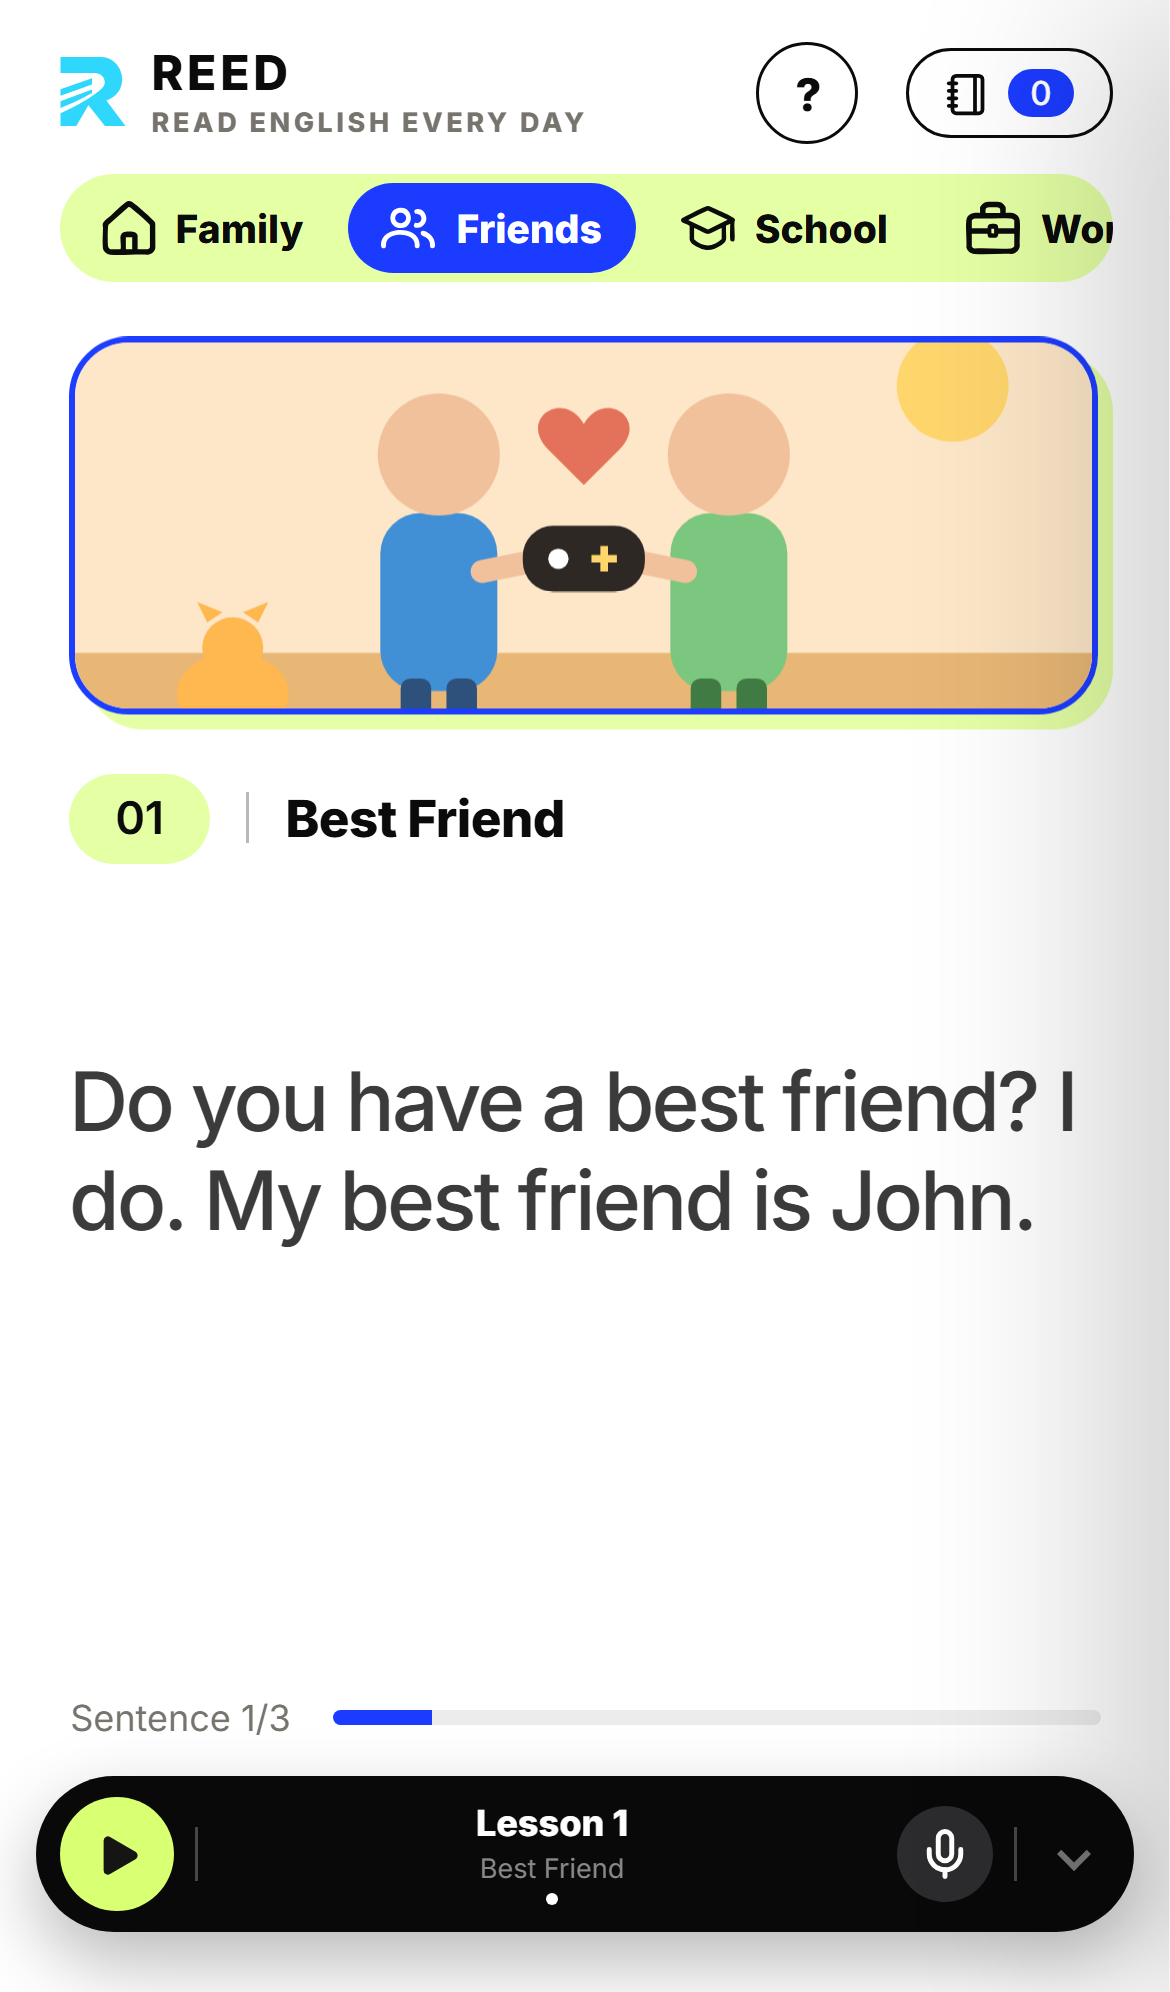
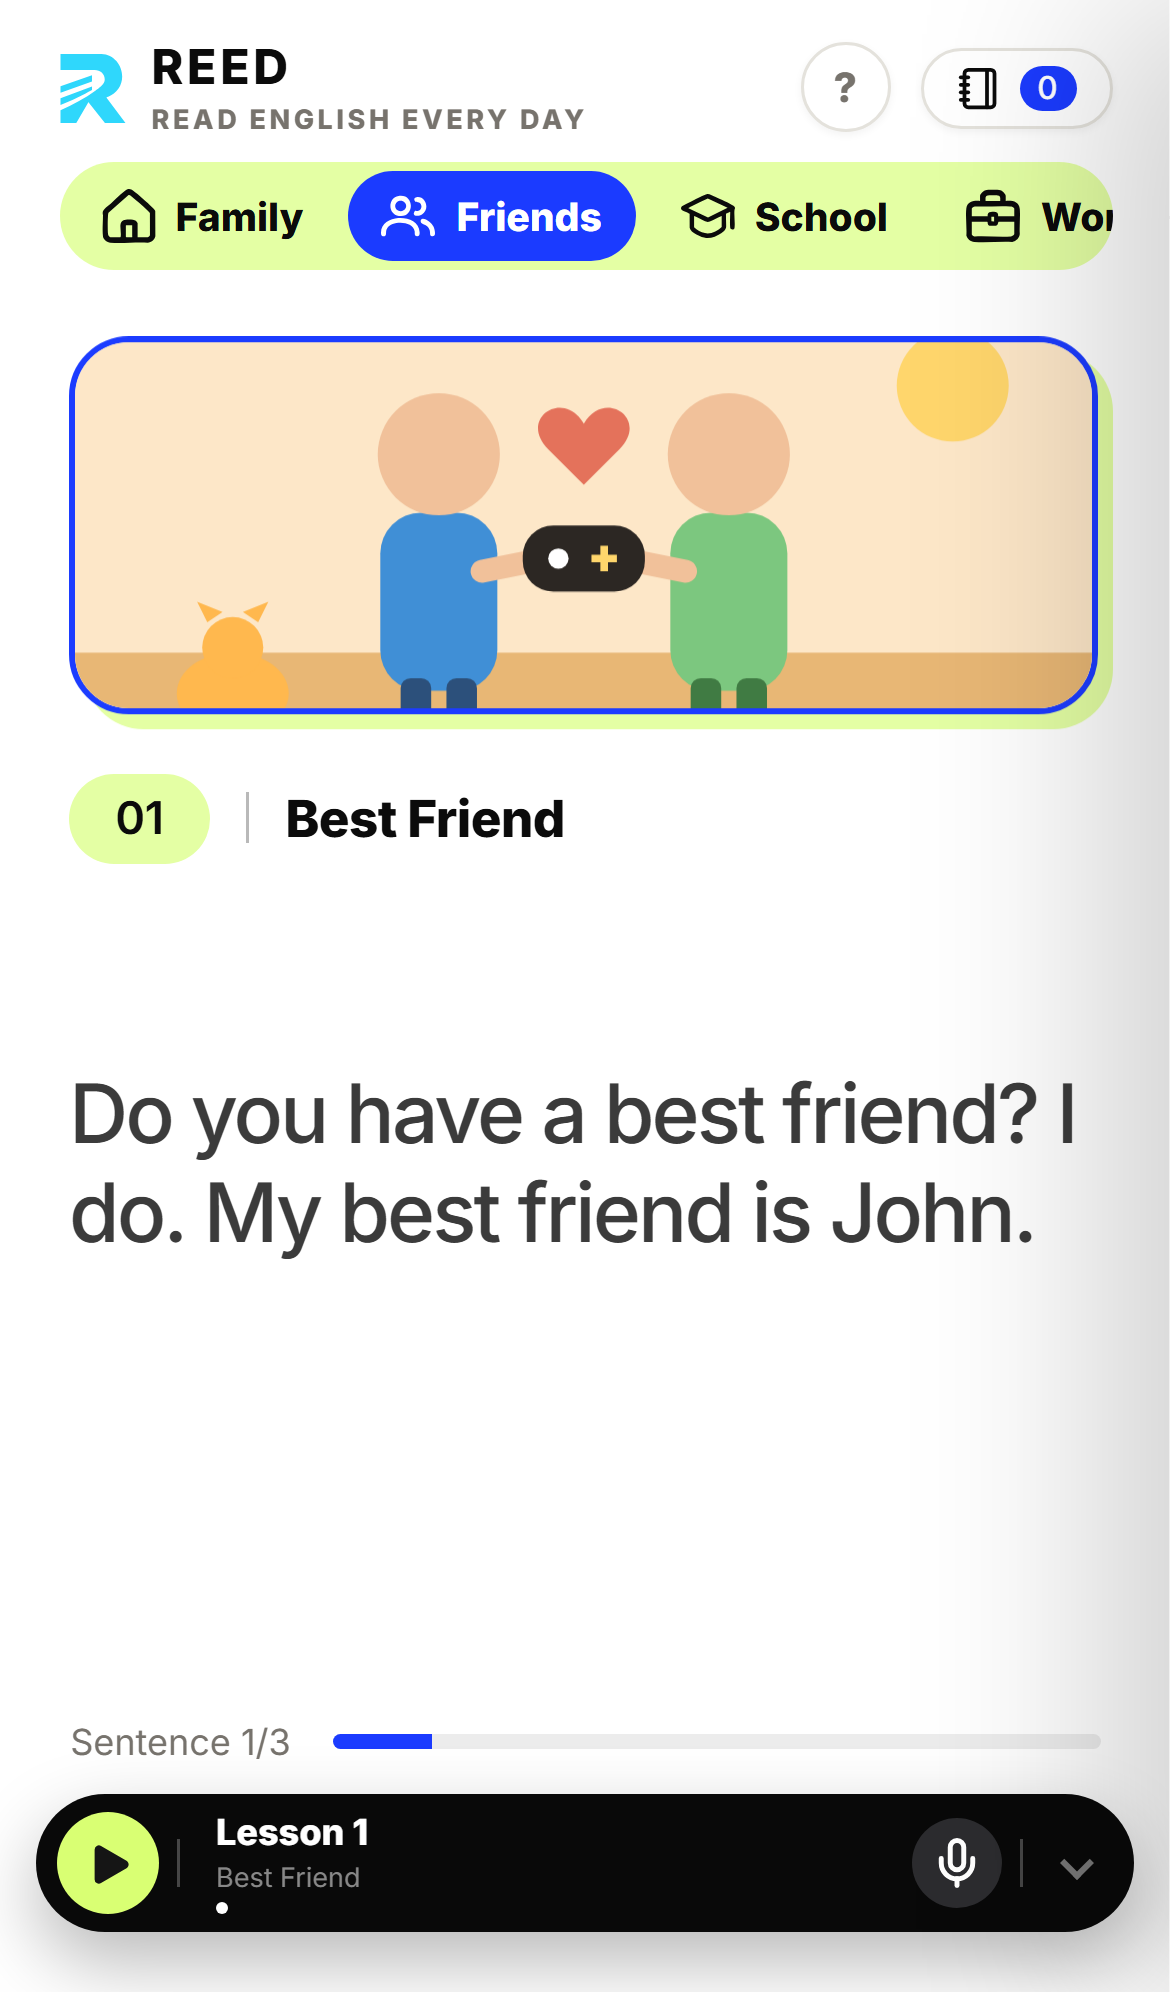
Visual refinement pass 2: slimmer player, lighter "?" and notebook buttons
- player 56 -> 50px (mobile 52 -> 46px), smaller play/mic buttons, lesson title left-aligned next to play (like the demo)
- "?" and notebook: 1px light border + soft shadow instead of a thick black outline, smaller; "?" in muted color
- spacing above/below the player adjusted to the lower bar

diff --git a/deploy/index.html b/deploy/index.html
@@ -27,10 +27,10 @@ body{margin:0;background:var(--bg);color:var(--ink);
 .top .brandtext{display:flex;flex-direction:column;line-height:1.1}
 .top .brandtext b{font-size:16px;font-weight:800;letter-spacing:.08em;color:var(--ink)}
 .top .brandtext i{font-style:normal;font-size:9px;font-weight:700;letter-spacing:.13em;color:var(--muted);text-transform:uppercase;margin-top:3px}
-.top .right{display:flex;align-items:center;gap:14px;pointer-events:none}
-.nbBtn{pointer-events:auto;border:1.5px solid var(--ink);background:#fff;color:var(--ink);border-radius:999px;
-  padding:6px 12px;font:inherit;font-size:13px;font-weight:600;cursor:pointer;display:inline-flex;align-items:center;gap:6px}
-.nbBtn b{background:var(--accent);color:#fff;border-radius:999px;padding:1px 7px;font-size:11px;min-width:1.4em;text-align:center}
+.top .right{display:flex;align-items:center;gap:10px;pointer-events:none}
+.nbBtn{pointer-events:auto;border:1px solid #e4e2dc;background:#fff;color:var(--ink);border-radius:999px;box-shadow:0 1px 3px rgba(0,0,0,.05);
+  padding:5px 11px;font:inherit;font-size:12.5px;font-weight:600;cursor:pointer;display:inline-flex;align-items:center;gap:6px}
+.nbBtn b{background:var(--accent);color:#fff;border-radius:999px;padding:1px 6px;font-size:10.5px;min-width:1.4em;text-align:center}
 .nbBackdrop{position:fixed;inset:0;background:rgba(30,20,10,.32);z-index:48;opacity:0;transition:opacity .35s}
 .nbBackdrop.show{opacity:1}
 .nb{position:fixed;top:0;right:0;bottom:0;width:min(420px,92vw);background:#fff;z-index:49;
@@ -105,7 +105,7 @@ body{margin:0;background:var(--bg);color:var(--ink);
 @keyframes rise{from{opacity:0;transform:translateY(14px)}to{opacity:1;transform:none}}
 #main.entering .label,#main.entering .sents{animation:rise .55s cubic-bezier(.2,.8,.2,1) both}
 #main.entering .art{animation:rise .65s .08s cubic-bezier(.2,.8,.2,1) both}
-.tipBtn{width:34px;height:34px;padding:0;justify-content:center;font-weight:800;font-size:15px;margin-right:2px}
+.tipBtn{width:30px;height:30px;padding:0;justify-content:center;font-weight:700;font-size:13.5px;margin-right:0;color:var(--muted)}
 .tip{position:fixed;z-index:65;left:0;top:0;max-width:min(280px,calc(100vw - 24px));padding:11px 14px;border-radius:14px;background:#0b0b0b;color:#fff;
   font-size:13.5px;font-weight:600;line-height:1.4;letter-spacing:0;box-shadow:0 10px 28px rgba(0,0,0,.28);cursor:pointer;
   opacity:0;transform:translateY(6px);pointer-events:none;transition:opacity .25s ease,transform .25s ease;display:flex;gap:10px;align-items:center}
@@ -165,7 +165,7 @@ body{margin:0;background:var(--bg);color:var(--ink);
 .tourCard .tf .tg2{background:var(--accent);border-color:var(--accent);color:#fff}
 .tourCard .tf .tx{margin-right:auto;border-color:#d4d4d4;color:#55514c}
 .tourCard .tf button[hidden]{display:none}
-.player .mic{position:relative;width:38px;height:38px;flex:0 0 38px;margin-left:6px;border:0;border-radius:50%;background:#2c2c2f;color:#fff;display:flex;align-items:center;justify-content:center;cursor:pointer;
+.player .mic{position:relative;width:34px;height:34px;flex:0 0 34px;margin-left:6px;border:0;border-radius:50%;background:#2c2c2f;color:#fff;display:flex;align-items:center;justify-content:center;cursor:pointer;
   transition:background .2s ease,transform .15s ease}
 .player .mic:active{transform:scale(.9)}
 .player .mic .pl,.player .mic .bd{display:none}
@@ -192,7 +192,7 @@ body{margin:0;background:var(--bg);color:var(--ink);
 .player.recording .rec-live{display:flex}
 .player.recording .rcancel2{display:block}
 .player.recording .lesson-content,.player.recording .mic,.player.recording .d2,.player.recording .chevron-button{display:none}
-.recSheet{position:fixed;z-index:70;left:50%;bottom:calc(env(safe-area-inset-bottom,0px) + 100px);width:min(460px,calc(100vw - 24px));transform:translate(-50%,12px);
+.recSheet{position:fixed;z-index:70;left:50%;bottom:calc(env(safe-area-inset-bottom,0px) + 92px);width:min(460px,calc(100vw - 24px));transform:translate(-50%,12px);
   background:#0b0b0b;color:#fff;border-radius:22px;padding:10px 12px;box-shadow:0 16px 40px rgba(0,0,0,.35);opacity:0;transition:opacity .25s ease,transform .25s ease}
 .recSheet.on{opacity:1;transform:translate(-50%,0)}
 .recSheet[hidden]{display:none}
@@ -275,7 +275,7 @@ body{margin:0;background:var(--bg);color:var(--ink);
   transition:left .5s cubic-bezier(.3,.9,.3,1),width .5s cubic-bezier(.3,.9,.3,1)}
 .tg button{position:relative;z-index:1;border:0;background:none;font:inherit;font-size:14px;font-weight:600;padding:8px 18px;cursor:pointer;color:var(--ink);transition:color .35s}
 .tg button[aria-pressed=true]{color:#fff}
-.foot{position:absolute;left:0;right:0;bottom:92px;display:flex;align-items:center;gap:14px;font-size:12px;color:var(--muted)}
+.foot{position:absolute;left:0;right:0;bottom:84px;display:flex;align-items:center;gap:14px;font-size:12px;color:var(--muted)}
 .bar{flex:1;height:5px;background:var(--grey);border-radius:5px;overflow:hidden}
 .bar i{display:block;height:100%;width:0;background:var(--accent)}
 .art{border:3px solid var(--accent);border-radius:28px;overflow:hidden;aspect-ratio:1/1;
@@ -300,17 +300,17 @@ body{margin:0;background:var(--bg);color:var(--ink);
 /* ---- Player (dock): 1 hàng Lesson + picker cuộn dọc / 1 hàng cài đặt giọng-tốc độ, vuốt hoặc bấm chevron để đổi.
    Cỡ thu nhỏ lại gần bằng dock gọn trước đây (~56px) — bản 88px trước quá to so với phần còn lại của app. */
 .player{position:fixed;z-index:40;left:50%;bottom:20px;transform:translateX(-50%);width:min(92vw,420px);
-  height:56px;background:#090909;border-radius:28px;overflow:hidden;box-shadow:0 10px 25px rgba(0,0,0,.28);touch-action:pan-y}
+  height:50px;background:#090909;border-radius:25px;overflow:hidden;box-shadow:0 10px 25px rgba(0,0,0,.28);touch-action:pan-y}
 .player .viewport{width:100%;height:100%;overflow:hidden;position:relative}
 .player .slider{width:100%;position:absolute;left:0;top:0;transition:transform .35s cubic-bezier(.22,.8,.25,1)}
-.player.settings .slider{transform:translateY(-56px)}
-.player .row,.player .settings-row{width:100%;height:56px;display:flex;align-items:center;padding:6px 10px}
-.player .play{width:42px;height:42px;flex:0 0 42px;border:0;border-radius:50%;background:#d9ff73;
+.player.settings .slider{transform:translateY(-50px)}
+.player .row,.player .settings-row{width:100%;height:50px;display:flex;align-items:center;padding:5px 9px}
+.player .play{width:38px;height:38px;flex:0 0 38px;border:0;border-radius:50%;background:#d9ff73;
   display:flex;justify-content:center;align-items:center;cursor:pointer;transition:transform .15s ease;color:#151515}
 .player .play:active{transform:scale(.92)}
 .player .play svg{display:block}
 .player .divider{width:1px;height:20px;background:rgba(255,255,255,.25);margin:0 9px;flex:0 0 1px}
-.lesson-content{flex:1;min-width:0;height:100%;display:flex;flex-direction:column;align-items:center;justify-content:center;
+.lesson-content{flex:1;min-width:0;height:100%;display:flex;flex-direction:column;align-items:flex-start;justify-content:center;padding-left:6px;
   cursor:pointer;user-select:none;position:relative}
 .lesson-title{color:#fff;font-size:13px;font-weight:700;line-height:1.1;white-space:nowrap}
 .lesson-subtitle{margin-top:2px;color:#888;font-size:10px;white-space:nowrap}
@@ -370,20 +370,20 @@ body{-webkit-user-select:none;user-select:none;-webkit-touch-callout:none;-webki
   border-radius:50%;border:1px solid rgba(255,255,255,.08);pointer-events:none}
 
 @media (max-width:480px){
-  .player .mic{width:32px;height:32px;flex-basis:32px;margin-left:4px}
+  .player .mic{width:30px;height:30px;flex-basis:30px;margin-left:4px}
   .player .mic.has .bd{width:9px;height:9px;top:1px;right:1px}
   .player .rl-text{font-size:12px}
   .player .rcancel2{padding:8px 14px;font-size:13px}
-  .recSheet{bottom:calc(env(safe-area-inset-bottom,0px) + 86px);padding:8px 10px}
+  .recSheet{bottom:calc(env(safe-area-inset-bottom,0px) + 80px);padding:8px 10px}
   .recSheet.s-rev{padding:14px 12px 10px}
   .recSheet .rlk{font-size:14px;padding:8px 6px}
   .recSheet .rb{padding:9px 13px;font-size:13.5px;gap:6px}
-  .player{width:calc(100vw - 24px);height:52px;border-radius:26px}
+  .player{width:calc(100vw - 24px);height:46px;border-radius:23px}
   .player .slider{transform:translateY(0)}
-  .player.settings .slider{transform:translateY(-52px)}
-  .player .row,.player .settings-row{height:52px;padding:5px 8px}
-  .player .play{width:38px;height:38px;flex-basis:38px}
-  .player .divider{margin:0 7px;height:18px}
+  .player.settings .slider{transform:translateY(-46px)}
+  .player .row,.player .settings-row{height:46px;padding:4px 7px}
+  .player .play{width:34px;height:34px;flex-basis:34px}
+  .player .divider{margin:0 6px;height:16px}
   .lesson-title{font-size:12px}
   .lesson-subtitle{font-size:9px}
   .setting{width:30px;height:30px;flex-basis:30px}
@@ -407,7 +407,7 @@ body{-webkit-user-select:none;user-select:none;-webkit-touch-callout:none;-webki
   .left{display:flex;flex-direction:column;justify-content:flex-start;min-height:0;min-width:0;max-width:100%}
   .sents,.foot{min-width:0;max-width:100%}
   .sents{margin-top:34px;flex:1 1 0;min-height:0;max-height:none;align-content:center}
-  .foot{position:static;flex:0 0 auto;margin-bottom:84px;padding-top:10px}
+  .foot{position:static;flex:0 0 auto;margin-bottom:76px;padding-top:10px}
   /* Câu/đoạn dài trên màn hình hẹp: chữ nhỏ lại một chút để đỡ tràn dòng, và nếu vẫn dài
      quá thì tự cuộn bên trong thay vì đè lên thanh điều khiển cố định phía dưới. */
   .recap .line{font-size:calc(var(--rs) * clamp(15px,4vw,22px));line-height:1.5}

diff --git a/index.html b/index.html
@@ -27,10 +27,10 @@ body{margin:0;background:var(--bg);color:var(--ink);
 .top .brandtext{display:flex;flex-direction:column;line-height:1.1}
 .top .brandtext b{font-size:16px;font-weight:800;letter-spacing:.08em;color:var(--ink)}
 .top .brandtext i{font-style:normal;font-size:9px;font-weight:700;letter-spacing:.13em;color:var(--muted);text-transform:uppercase;margin-top:3px}
-.top .right{display:flex;align-items:center;gap:14px;pointer-events:none}
-.nbBtn{pointer-events:auto;border:1.5px solid var(--ink);background:#fff;color:var(--ink);border-radius:999px;
-  padding:6px 12px;font:inherit;font-size:13px;font-weight:600;cursor:pointer;display:inline-flex;align-items:center;gap:6px}
-.nbBtn b{background:var(--accent);color:#fff;border-radius:999px;padding:1px 7px;font-size:11px;min-width:1.4em;text-align:center}
+.top .right{display:flex;align-items:center;gap:10px;pointer-events:none}
+.nbBtn{pointer-events:auto;border:1px solid #e4e2dc;background:#fff;color:var(--ink);border-radius:999px;box-shadow:0 1px 3px rgba(0,0,0,.05);
+  padding:5px 11px;font:inherit;font-size:12.5px;font-weight:600;cursor:pointer;display:inline-flex;align-items:center;gap:6px}
+.nbBtn b{background:var(--accent);color:#fff;border-radius:999px;padding:1px 6px;font-size:10.5px;min-width:1.4em;text-align:center}
 .nbBackdrop{position:fixed;inset:0;background:rgba(30,20,10,.32);z-index:48;opacity:0;transition:opacity .35s}
 .nbBackdrop.show{opacity:1}
 .nb{position:fixed;top:0;right:0;bottom:0;width:min(420px,92vw);background:#fff;z-index:49;
@@ -105,7 +105,7 @@ body{margin:0;background:var(--bg);color:var(--ink);
 @keyframes rise{from{opacity:0;transform:translateY(14px)}to{opacity:1;transform:none}}
 #main.entering .label,#main.entering .sents{animation:rise .55s cubic-bezier(.2,.8,.2,1) both}
 #main.entering .art{animation:rise .65s .08s cubic-bezier(.2,.8,.2,1) both}
-.tipBtn{width:34px;height:34px;padding:0;justify-content:center;font-weight:800;font-size:15px;margin-right:2px}
+.tipBtn{width:30px;height:30px;padding:0;justify-content:center;font-weight:700;font-size:13.5px;margin-right:0;color:var(--muted)}
 .tip{position:fixed;z-index:65;left:0;top:0;max-width:min(280px,calc(100vw - 24px));padding:11px 14px;border-radius:14px;background:#0b0b0b;color:#fff;
   font-size:13.5px;font-weight:600;line-height:1.4;letter-spacing:0;box-shadow:0 10px 28px rgba(0,0,0,.28);cursor:pointer;
   opacity:0;transform:translateY(6px);pointer-events:none;transition:opacity .25s ease,transform .25s ease;display:flex;gap:10px;align-items:center}
@@ -165,7 +165,7 @@ body{margin:0;background:var(--bg);color:var(--ink);
 .tourCard .tf .tg2{background:var(--accent);border-color:var(--accent);color:#fff}
 .tourCard .tf .tx{margin-right:auto;border-color:#d4d4d4;color:#55514c}
 .tourCard .tf button[hidden]{display:none}
-.player .mic{position:relative;width:38px;height:38px;flex:0 0 38px;margin-left:6px;border:0;border-radius:50%;background:#2c2c2f;color:#fff;display:flex;align-items:center;justify-content:center;cursor:pointer;
+.player .mic{position:relative;width:34px;height:34px;flex:0 0 34px;margin-left:6px;border:0;border-radius:50%;background:#2c2c2f;color:#fff;display:flex;align-items:center;justify-content:center;cursor:pointer;
   transition:background .2s ease,transform .15s ease}
 .player .mic:active{transform:scale(.9)}
 .player .mic .pl,.player .mic .bd{display:none}
@@ -192,7 +192,7 @@ body{margin:0;background:var(--bg);color:var(--ink);
 .player.recording .rec-live{display:flex}
 .player.recording .rcancel2{display:block}
 .player.recording .lesson-content,.player.recording .mic,.player.recording .d2,.player.recording .chevron-button{display:none}
-.recSheet{position:fixed;z-index:70;left:50%;bottom:calc(env(safe-area-inset-bottom,0px) + 100px);width:min(460px,calc(100vw - 24px));transform:translate(-50%,12px);
+.recSheet{position:fixed;z-index:70;left:50%;bottom:calc(env(safe-area-inset-bottom,0px) + 92px);width:min(460px,calc(100vw - 24px));transform:translate(-50%,12px);
   background:#0b0b0b;color:#fff;border-radius:22px;padding:10px 12px;box-shadow:0 16px 40px rgba(0,0,0,.35);opacity:0;transition:opacity .25s ease,transform .25s ease}
 .recSheet.on{opacity:1;transform:translate(-50%,0)}
 .recSheet[hidden]{display:none}
@@ -275,7 +275,7 @@ body{margin:0;background:var(--bg);color:var(--ink);
   transition:left .5s cubic-bezier(.3,.9,.3,1),width .5s cubic-bezier(.3,.9,.3,1)}
 .tg button{position:relative;z-index:1;border:0;background:none;font:inherit;font-size:14px;font-weight:600;padding:8px 18px;cursor:pointer;color:var(--ink);transition:color .35s}
 .tg button[aria-pressed=true]{color:#fff}
-.foot{position:absolute;left:0;right:0;bottom:92px;display:flex;align-items:center;gap:14px;font-size:12px;color:var(--muted)}
+.foot{position:absolute;left:0;right:0;bottom:84px;display:flex;align-items:center;gap:14px;font-size:12px;color:var(--muted)}
 .bar{flex:1;height:5px;background:var(--grey);border-radius:5px;overflow:hidden}
 .bar i{display:block;height:100%;width:0;background:var(--accent)}
 .art{border:3px solid var(--accent);border-radius:28px;overflow:hidden;aspect-ratio:1/1;
@@ -300,17 +300,17 @@ body{margin:0;background:var(--bg);color:var(--ink);
 /* ---- Player (dock): 1 hàng Lesson + picker cuộn dọc / 1 hàng cài đặt giọng-tốc độ, vuốt hoặc bấm chevron để đổi.
    Cỡ thu nhỏ lại gần bằng dock gọn trước đây (~56px) — bản 88px trước quá to so với phần còn lại của app. */
 .player{position:fixed;z-index:40;left:50%;bottom:20px;transform:translateX(-50%);width:min(92vw,420px);
-  height:56px;background:#090909;border-radius:28px;overflow:hidden;box-shadow:0 10px 25px rgba(0,0,0,.28);touch-action:pan-y}
+  height:50px;background:#090909;border-radius:25px;overflow:hidden;box-shadow:0 10px 25px rgba(0,0,0,.28);touch-action:pan-y}
 .player .viewport{width:100%;height:100%;overflow:hidden;position:relative}
 .player .slider{width:100%;position:absolute;left:0;top:0;transition:transform .35s cubic-bezier(.22,.8,.25,1)}
-.player.settings .slider{transform:translateY(-56px)}
-.player .row,.player .settings-row{width:100%;height:56px;display:flex;align-items:center;padding:6px 10px}
-.player .play{width:42px;height:42px;flex:0 0 42px;border:0;border-radius:50%;background:#d9ff73;
+.player.settings .slider{transform:translateY(-50px)}
+.player .row,.player .settings-row{width:100%;height:50px;display:flex;align-items:center;padding:5px 9px}
+.player .play{width:38px;height:38px;flex:0 0 38px;border:0;border-radius:50%;background:#d9ff73;
   display:flex;justify-content:center;align-items:center;cursor:pointer;transition:transform .15s ease;color:#151515}
 .player .play:active{transform:scale(.92)}
 .player .play svg{display:block}
 .player .divider{width:1px;height:20px;background:rgba(255,255,255,.25);margin:0 9px;flex:0 0 1px}
-.lesson-content{flex:1;min-width:0;height:100%;display:flex;flex-direction:column;align-items:center;justify-content:center;
+.lesson-content{flex:1;min-width:0;height:100%;display:flex;flex-direction:column;align-items:flex-start;justify-content:center;padding-left:6px;
   cursor:pointer;user-select:none;position:relative}
 .lesson-title{color:#fff;font-size:13px;font-weight:700;line-height:1.1;white-space:nowrap}
 .lesson-subtitle{margin-top:2px;color:#888;font-size:10px;white-space:nowrap}
@@ -370,20 +370,20 @@ body{-webkit-user-select:none;user-select:none;-webkit-touch-callout:none;-webki
   border-radius:50%;border:1px solid rgba(255,255,255,.08);pointer-events:none}
 
 @media (max-width:480px){
-  .player .mic{width:32px;height:32px;flex-basis:32px;margin-left:4px}
+  .player .mic{width:30px;height:30px;flex-basis:30px;margin-left:4px}
   .player .mic.has .bd{width:9px;height:9px;top:1px;right:1px}
   .player .rl-text{font-size:12px}
   .player .rcancel2{padding:8px 14px;font-size:13px}
-  .recSheet{bottom:calc(env(safe-area-inset-bottom,0px) + 86px);padding:8px 10px}
+  .recSheet{bottom:calc(env(safe-area-inset-bottom,0px) + 80px);padding:8px 10px}
   .recSheet.s-rev{padding:14px 12px 10px}
   .recSheet .rlk{font-size:14px;padding:8px 6px}
   .recSheet .rb{padding:9px 13px;font-size:13.5px;gap:6px}
-  .player{width:calc(100vw - 24px);height:52px;border-radius:26px}
+  .player{width:calc(100vw - 24px);height:46px;border-radius:23px}
   .player .slider{transform:translateY(0)}
-  .player.settings .slider{transform:translateY(-52px)}
-  .player .row,.player .settings-row{height:52px;padding:5px 8px}
-  .player .play{width:38px;height:38px;flex-basis:38px}
-  .player .divider{margin:0 7px;height:18px}
+  .player.settings .slider{transform:translateY(-46px)}
+  .player .row,.player .settings-row{height:46px;padding:4px 7px}
+  .player .play{width:34px;height:34px;flex-basis:34px}
+  .player .divider{margin:0 6px;height:16px}
   .lesson-title{font-size:12px}
   .lesson-subtitle{font-size:9px}
   .setting{width:30px;height:30px;flex-basis:30px}
@@ -407,7 +407,7 @@ body{-webkit-user-select:none;user-select:none;-webkit-touch-callout:none;-webki
   .left{display:flex;flex-direction:column;justify-content:flex-start;min-height:0;min-width:0;max-width:100%}
   .sents,.foot{min-width:0;max-width:100%}
   .sents{margin-top:34px;flex:1 1 0;min-height:0;max-height:none;align-content:center}
-  .foot{position:static;flex:0 0 auto;margin-bottom:84px;padding-top:10px}
+  .foot{position:static;flex:0 0 auto;margin-bottom:76px;padding-top:10px}
   /* Câu/đoạn dài trên màn hình hẹp: chữ nhỏ lại một chút để đỡ tràn dòng, và nếu vẫn dài
      quá thì tự cuộn bên trong thay vì đè lên thanh điều khiển cố định phía dưới. */
   .recap .line{font-size:calc(var(--rs) * clamp(15px,4vw,22px));line-height:1.5}
